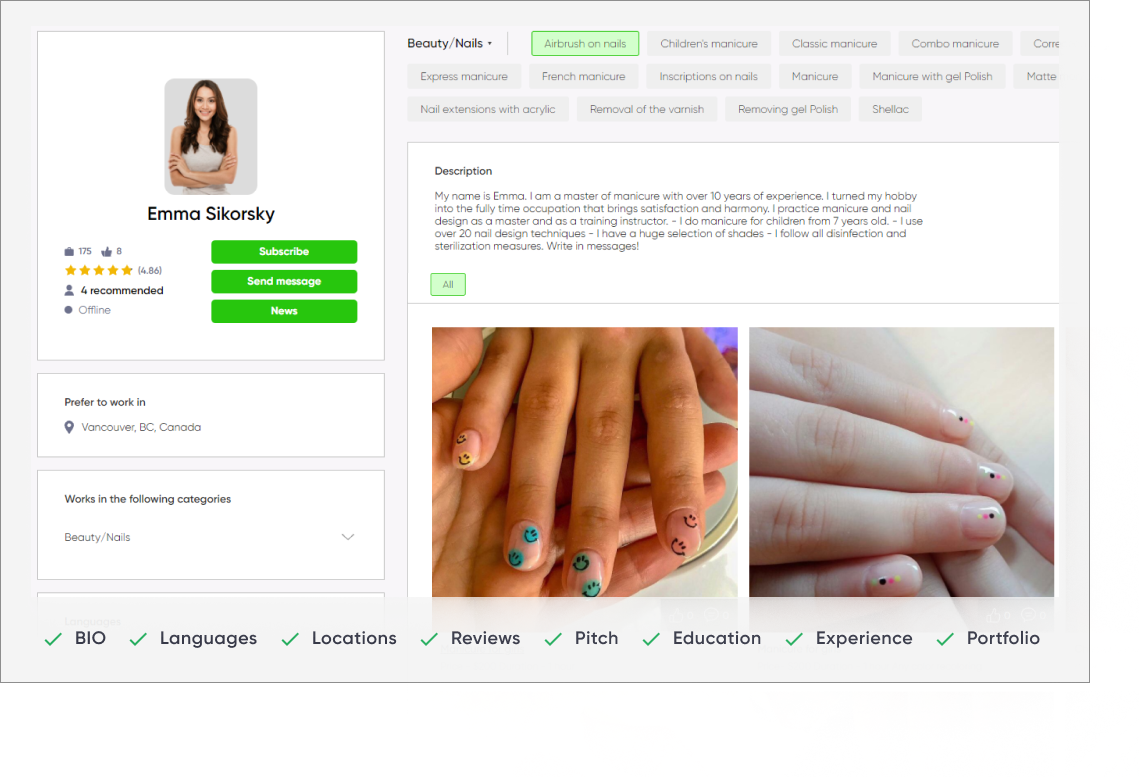
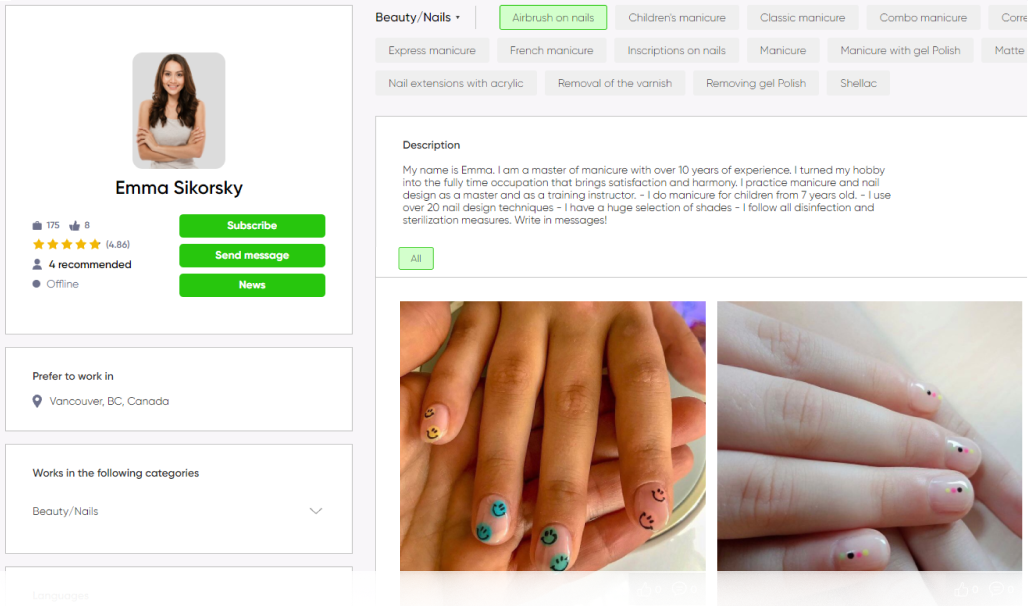
MainPage Slider fixes

diff --git a/pages/NewMain/components/MainSectionThird/Slider/index.tsx b/pages/NewMain/components/MainSectionThird/Slider/index.tsx
@@ -26,16 +26,21 @@ const MainSlider = (props: Props) => {
   const [active, setIsActive] = useState('profile')
 
   const features = [
-    {label: t('mainPage.thirdSection.features.profile'), svg: <Profile/>, name: 'profile', image: '/img/Main/Slider/profileM.png'},
-    {label: t('mainPage.thirdSection.features.orders'), svg: <Orders/>, name: 'orders',  image: '/img/Main/Slider/profileM.png'},
-    {label: t('mainPage.thirdSection.features.calendar'), svg: <Calendar/>, name: 'calendar',  image: '/img/Main/Slider/profileM.png'},
-    {label: t('mainPage.thirdSection.features.news'), svg: <News/>, name: 'news',  image: '/img/Main/Slider/profileM.png'},
-    {label: t('mainPage.thirdSection.features.messages'), svg: <Messages/>, name: 'messages',  image: '/img/Main/Slider/profileM.png'},
-    {label: t('mainPage.thirdSection.features.reports'), svg: <Reports/>, name: 'reports',  image: '/img/Main/Slider/profileM.png'}
+    {label: t('mainPage.thirdSection.features.profile'), svg: <Profile/>, name: 'profile', image: '/img/Main/Slider/profile.png',
+    list: [{label: 'BIO'}, {label: 'Pitch'}, {label: 'Languages'}, {label: 'Education'}, {label: 'Locations'},
+    {label: 'Experience'}, {label: 'Reviews'}, {label: 'Portfolio'}]},
+    {label: t('mainPage.thirdSection.features.orders'), svg: <Orders/>, name: 'orders',  image: '/img/Main/Slider/orders.png',
+    list: [{label: 'Find'}, {label: 'Negotiation'}, {label: 'Document'}]},
+    {label: t('mainPage.thirdSection.features.calendar'), svg: <Calendar/>, name: 'calendar',  image: '/img/Main/Slider/calendar.png',
+    list: [{label: 'Schedule'}, {label: 'Confirm'}, {label: 'Attach files'}, {label: 'Get reminders'}]},
+    {label: t('mainPage.thirdSection.features.news'), svg: <News/>, name: 'news',  image: '/img/Main/Slider/news.png',
+    list: [{label: 'Post photos'}, {label: 'Post videos'}, {label: 'Follow clients'}, {label: 'Collect comments and likes'}]},
+    {label: t('mainPage.thirdSection.features.messages'), svg: <Messages/>, name: 'messages',  image: '/img/Main/Slider/messages.png',
+    list: [{label: 'By Clients'}, {label: 'by Orders'}, {label: 'Send text and files'}]},
+    {label: t('mainPage.thirdSection.features.reports'), svg: <Reports/>, name: 'reports',  image: '/img/Main/Slider/reports.png',
+    list: [{label: 'by Orders'}, {label: 'by Clients'}, {label: 'by Profiles'}]},
   ]
 
-  const list = [{label: 'BIO'}, {label: 'Pitch'}, {label: 'Languages'}, {label: 'Education'}, {label: 'Locations'},
-  {label: 'Experience'}, {label: 'Reviews'}, {label: 'Portfolio'}]
 
   const settings = {
     infinite: true,
@@ -48,22 +53,29 @@ const MainSlider = (props: Props) => {
   };
   const slides = [
     {
-      image: '/img/Main/Slider/profile.png'
+      image: '/img/Main/Slider/profile.png',
+      list: [{label: 'BIO'}, {label: 'Pitch'}, {label: 'Languages'}, {label: 'Education'}, {label: 'Locations'},
+    {label: 'Experience'}, {label: 'Reviews'}, {label: 'Portfolio'}]
     },
     {
-      image: '/img/Main/Slider/profile.png'
+      image: '/img/Main/Slider/orders.png',
+      list: [{label: 'Find'}, {label: 'Negotiation'}, {label: 'Document'}]
     },
     {
-      image: '/img/Main/Slider/profile.png'
+      image: '/img/Main/Slider/calendar.png',
+      list: [{label: 'Schedule'}, {label: 'Confirm'}, {label: 'Attach files'}, {label: 'Get reminders'}]
     },
     {
-      image: '/img/Main/Slider/profile.png'
+      image: '/img/Main/Slider/news.png',
+      list: [{label: 'Post photos'}, {label: 'Post videos'}, {label: 'Follow clients'}, {label: 'Collect comments and likes'}]
     },
     {
-      image: '/img/Main/Slider/profile.png'
+      image: '/img/Main/Slider/messages.png',
+      list: [{label: 'By Clients'}, {label: 'by Orders'}, {label: 'Send text and files'}]
     },
     {
-      image: '/img/Main/Slider/profile.png'
+      image: '/img/Main/Slider/reports.png',
+      list: [{label: 'by Orders'}, {label: 'by Clients'}, {label: 'by Profiles'}]
     }
   ]
 
@@ -87,7 +99,7 @@ const MainSlider = (props: Props) => {
           <div className={feature.name === active ? styles.bottom : styles.none} style={{backgroundImage: `url(${feature.image})`}}>    
           </div>
           <div className={feature.name === active ? styles.list2 : styles.none}>
-            {list.map(item => 
+            {feature.list.map(item => 
               <div className={styles.itemList}>
                 <div>
                   <img src='/img/Main/icons/mark.svg' alt=''/>
@@ -103,7 +115,16 @@ const MainSlider = (props: Props) => {
       </div>
       <div className={styles.slider}>
       <Slider {...settings}>
-        {slides.map((slide, index) => <div className={styles.slide}><img src={slide.image} alt=''/></div>)}
+        {slides.map((slide, index) => <div className={styles.slide}><img className={styles.mainImg} src={slide.image} alt=''/>
+        <div className={styles.listItem}>{slide.list.map(item => 
+        <div className={styles.itemList__2}>
+        <div>
+          <img src='/img/Main/icons/mark.svg' alt=''/>
+        </div>
+        <div className={styles.listLabel}>{item.label}</div>
+      </div>)}
+        </div>
+        </div>)}
       </Slider>
       </div>
     </div>

diff --git a/pages/NewMain/components/MainSectionThird/Slider/index.module.scss b/pages/NewMain/components/MainSectionThird/Slider/index.module.scss
@@ -88,15 +88,16 @@
 
 .slide{
   padding: 0 75px;
+  display: flex !important;
+  flex-direction: column;
+  .mainImg{
+    border: 20px solid #F4F4F4;
+    border-bottom: 0;
+  }
   @media (max-width: 1899px) {
     display: flex !important;
     justify-content: center;
     padding: 0;
-  }
-  @media (max-width: 1400px) {
-    img{
-      width: 70%;
-    }
   }
 }
 
@@ -149,6 +150,14 @@
   img{
     margin-right: 13px;
   }
+  &__2{
+    display: flex;
+    align-items: center;
+    margin-right: 24px;
+    img{
+      margin-right: 13px;
+    }
+  }
 }
 
 .listLabel{
@@ -157,4 +166,12 @@
   line-height: 110%;
   letter-spacing: 0.03em;
   color: #373948;
+}
+
+.listItem{
+  display: flex;
+  padding: 0 50px 35px 50px;
+  background-color: #f4f4f4;
+  margin-top: -5%;
+  border-top: 35px solid #f4f4f4;
 }
